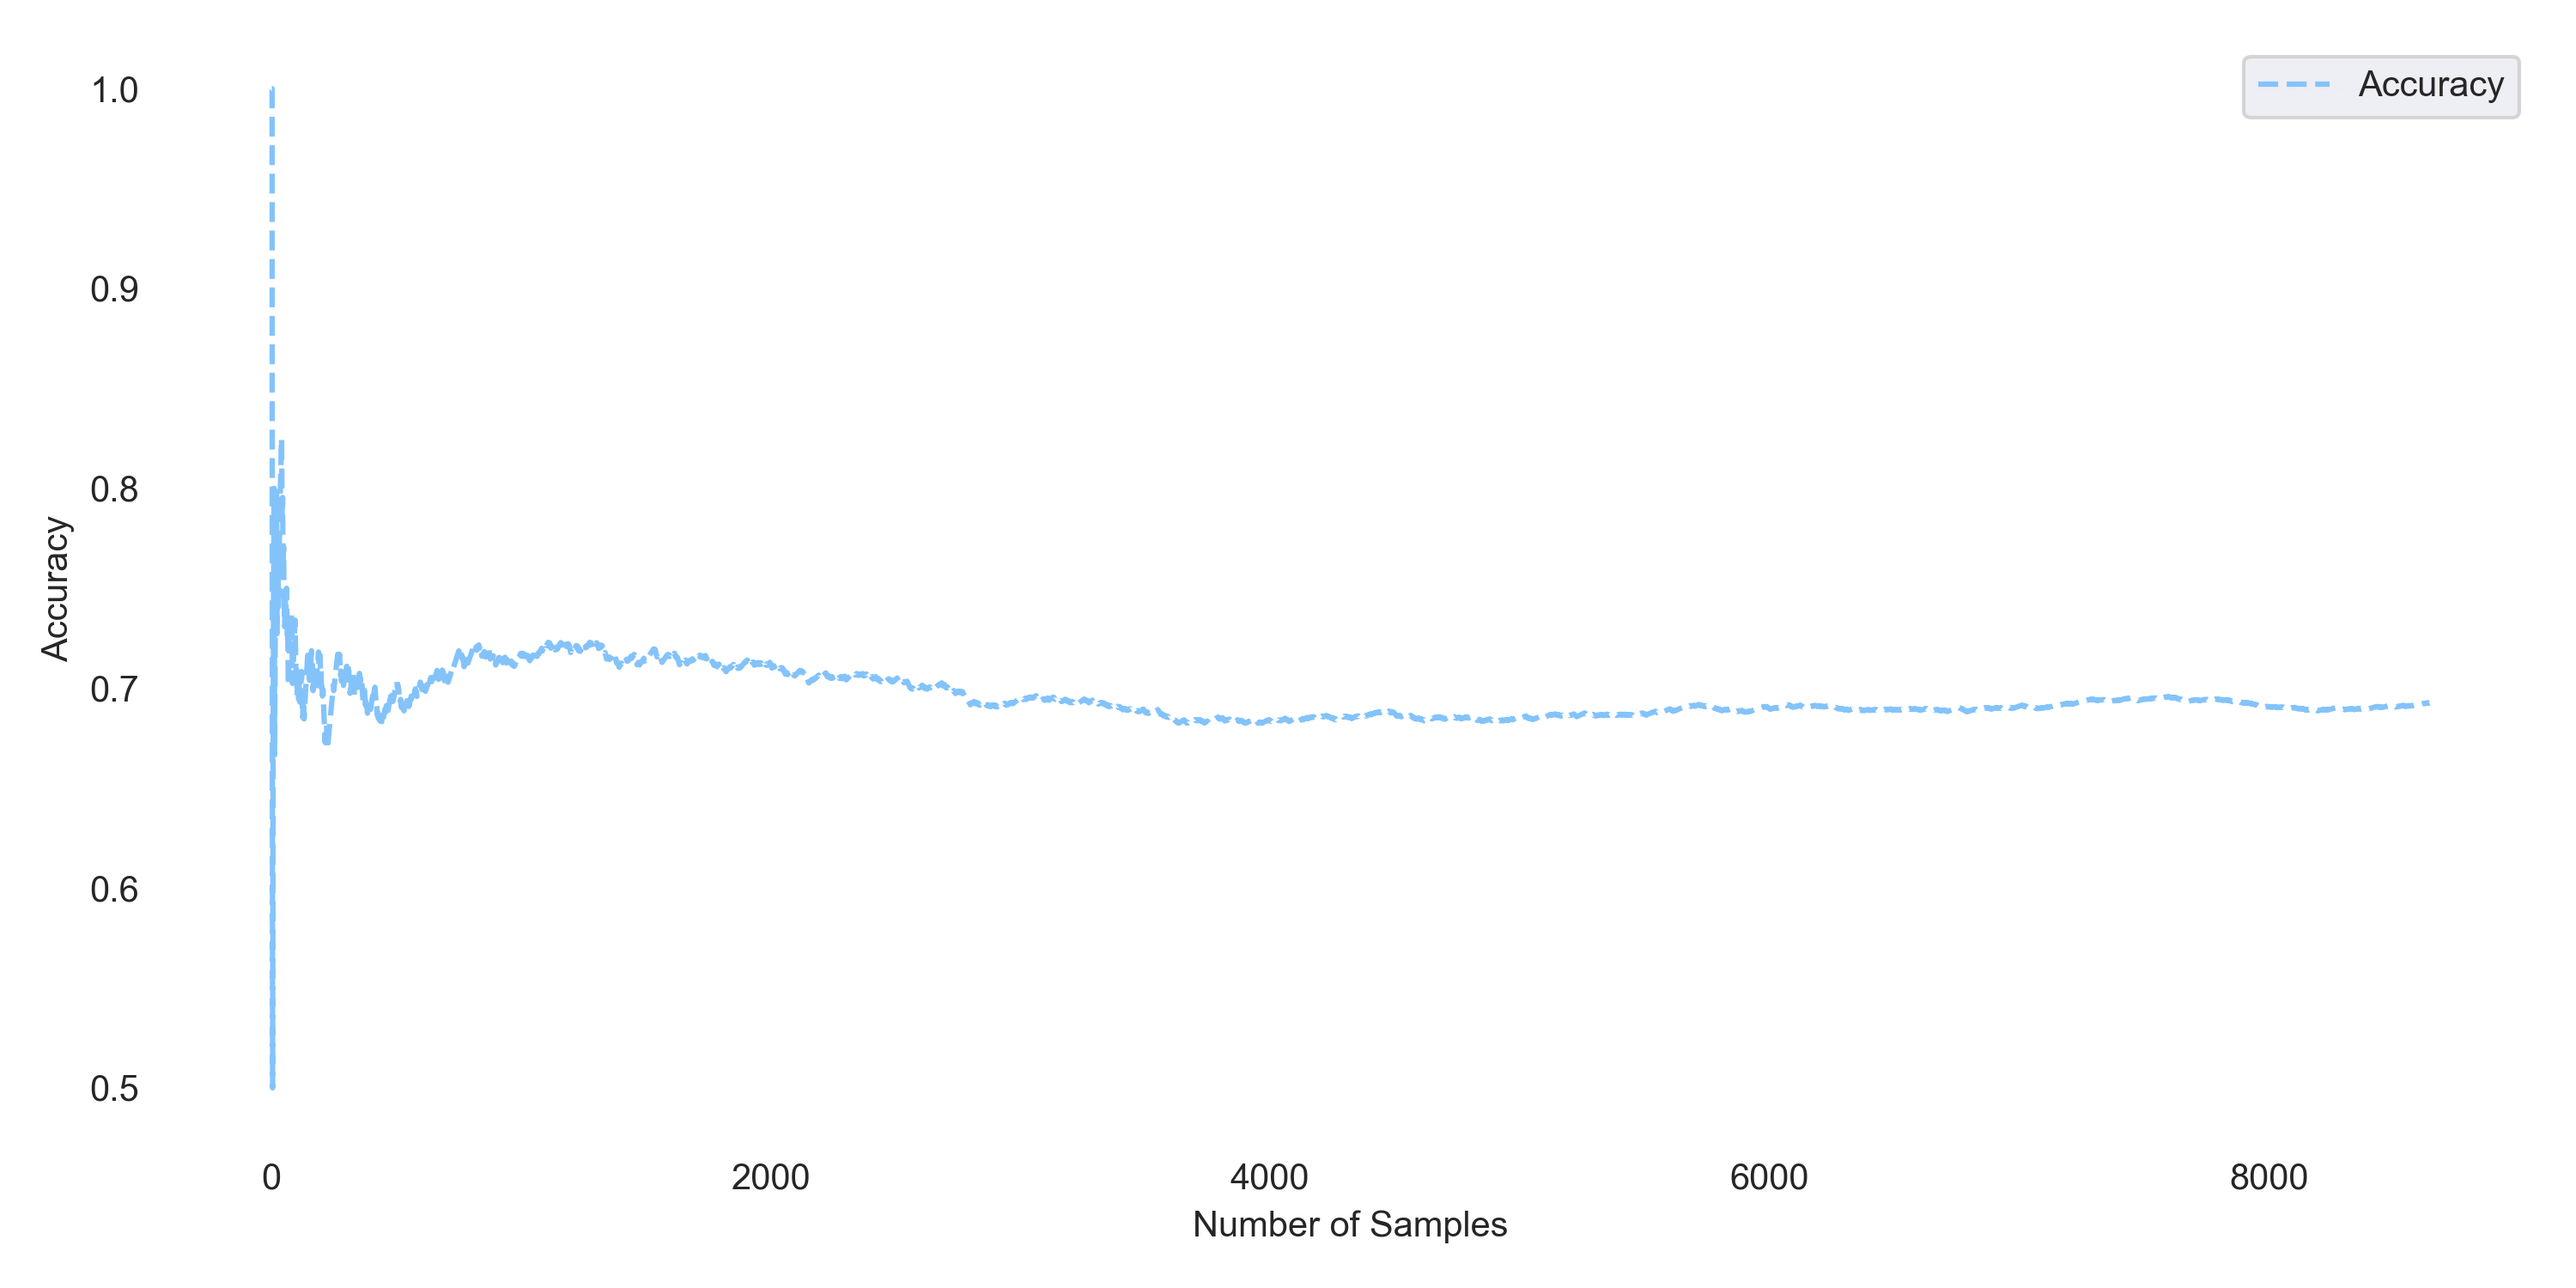
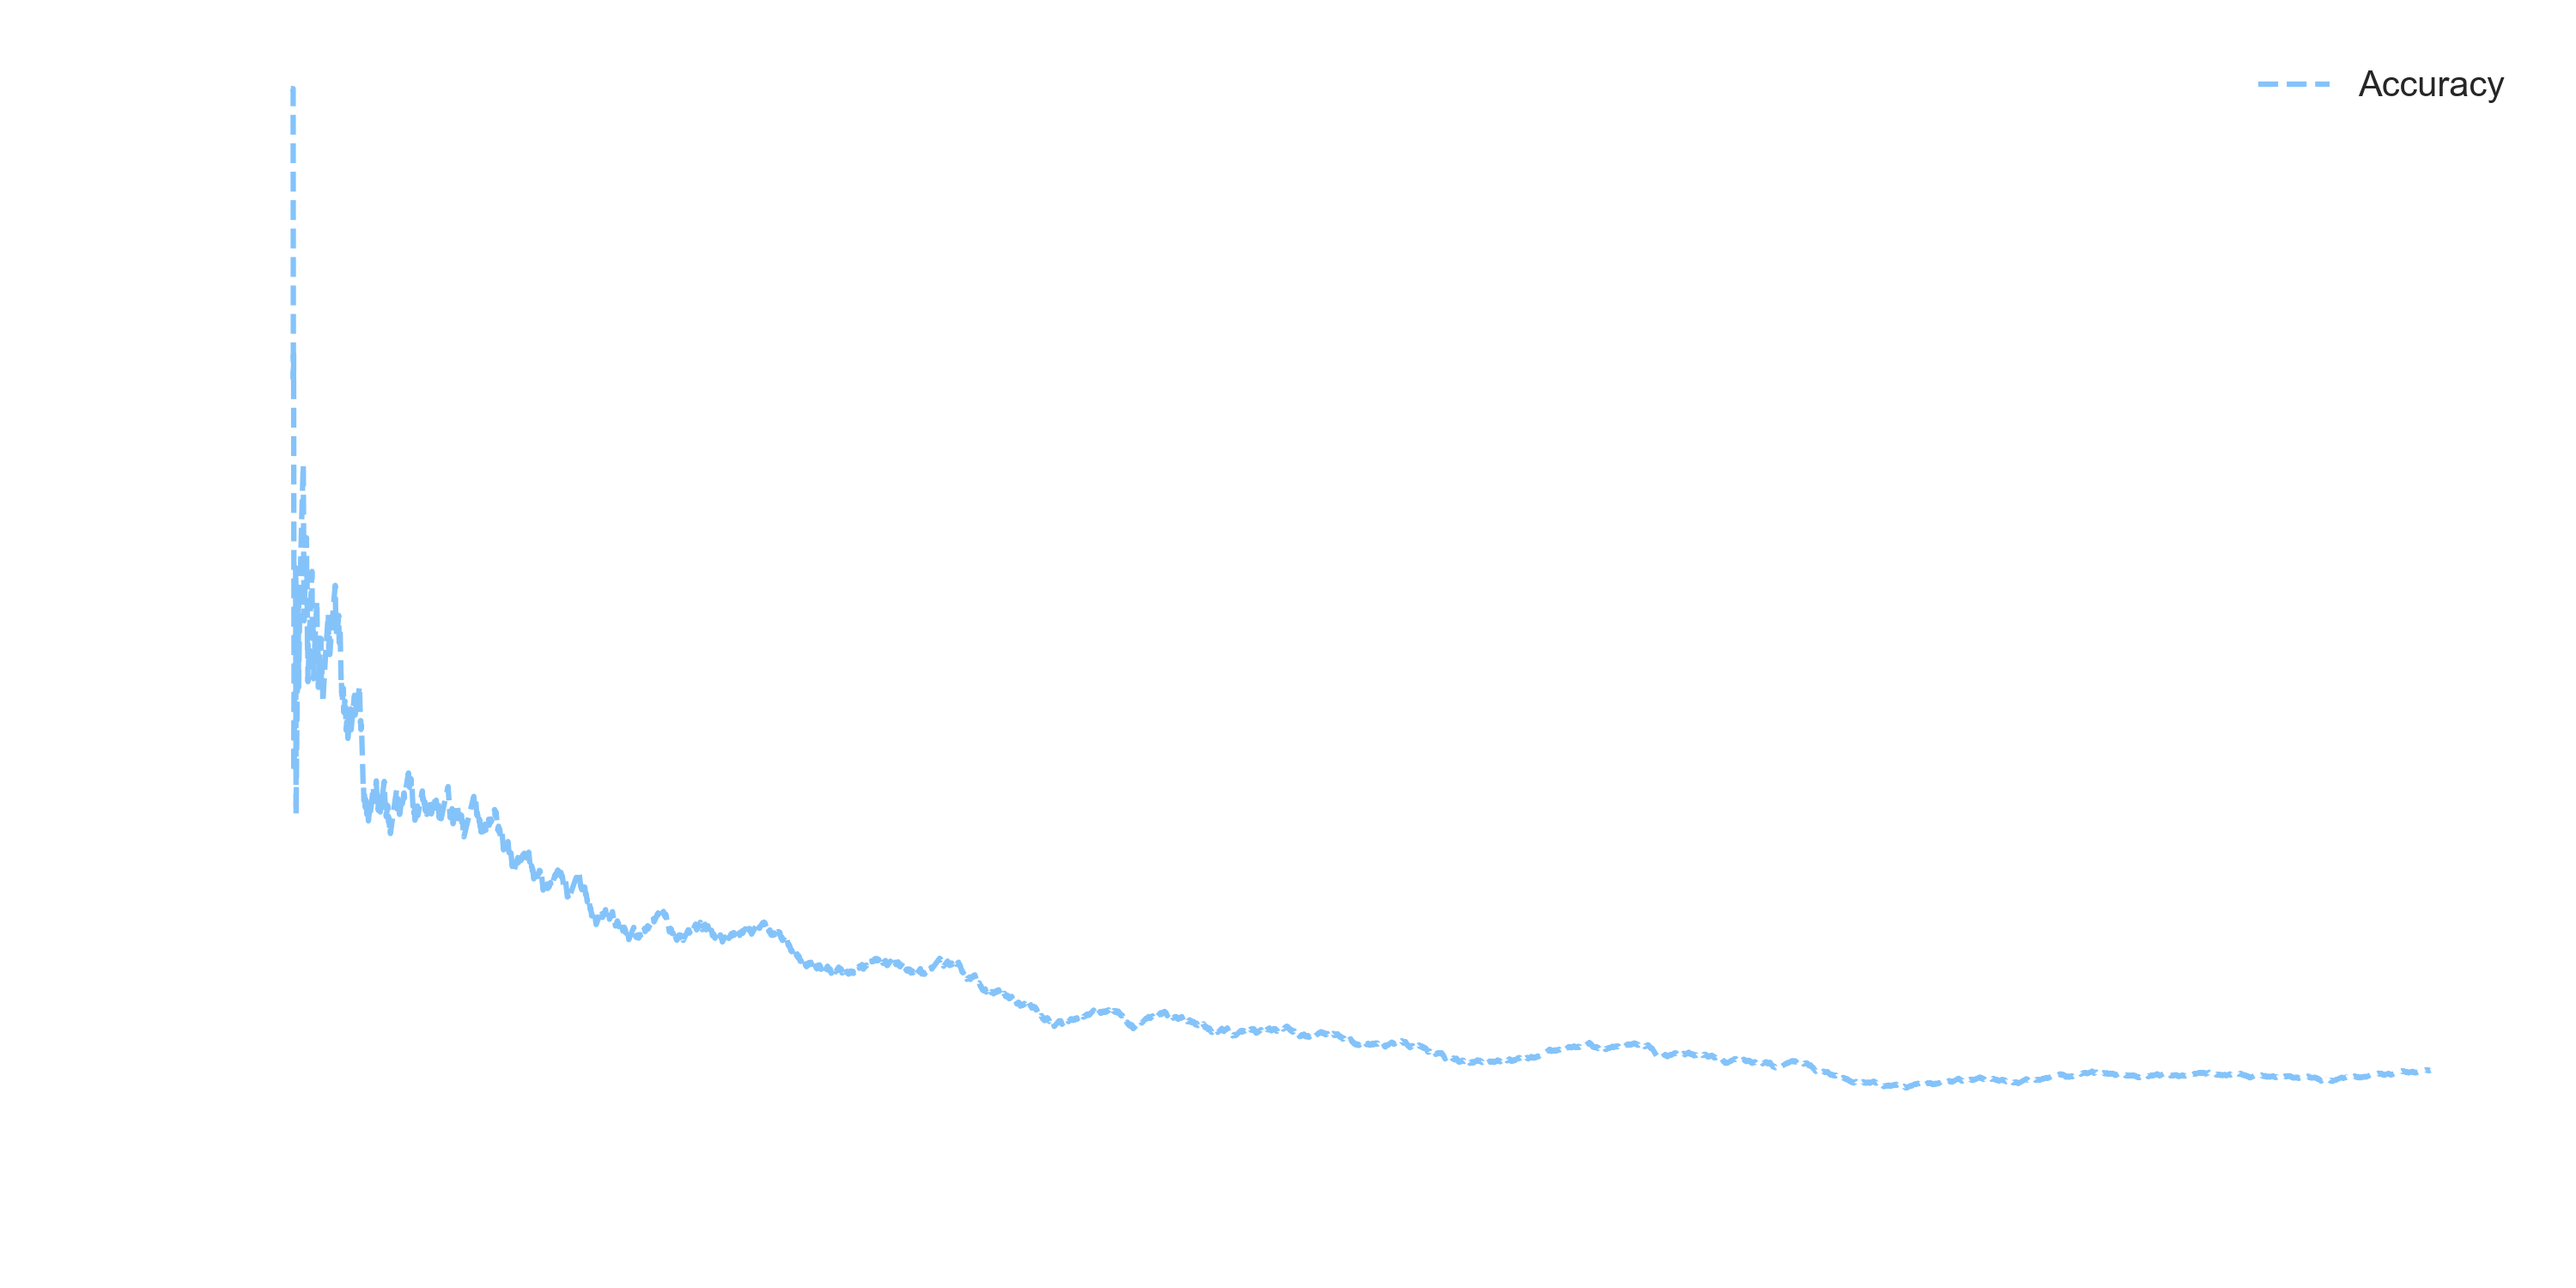
Finalized validation

diff --git a/src/prediction_models/gbdt_model.py b/src/prediction_models/gbdt_model.py
@@ -331,13 +331,15 @@ class GradientBoostingModel(ABC):
         accuracy_timeline = [accuracy_score(y_val[:i], predictions[:i]) for i in range(1, len(y_val) + 1)]
         plt.figure(figsize=(10, 5))
         sns.lineplot(x=range(1, len(y_val) + 1), y=accuracy_timeline, linestyle="--", color="#84C3FA")
-        plt.xlabel("Number of Samples")
-        plt.ylabel("Accuracy")
+        plt.xlabel("Number of Samples", color="white")
+        plt.ylabel("Accuracy", color="white")
         plt.grid(True, linestyle="--", alpha=0.6, axis="y")
         plt.grid(False, axis="x")  # Disable vertical grid lines
         plt.gca().set_facecolor("none")  # Make the background transparent
-        plt.legend(["Accuracy"])
+        plt.legend(["Accuracy"], facecolor="none", edgecolor="none")
         plt.tight_layout()
+        plt.gca().tick_params(axis="x", colors="white")
+        plt.gca().tick_params(axis="y", colors="white")
         plt.savefig(self.directory.joinpath(f"{self.model_name}_Accuracy_Over_Samples.png"), dpi=300, transparent=True)
         plt.close()
         logger.info(f"Accuracy over samples plot for {self.model_name} stored.")
@@ -383,14 +385,16 @@ class GradientBoostingModel(ABC):
 
         ax.xaxis.set_major_locator(mdates.WeekdayLocator(interval=2))
         ax.xaxis.set_major_formatter(mdates.DateFormatter("%Y-%m-%d"))
-        plt.xticks(rotation=90)
-        ax.set_xlabel("Date")
-        ax.set_ylabel("Accuracy")
+        plt.xticks(rotation=90, color="white")
+        ax.set_xlabel("Date", color="white")
+        ax.set_ylabel("Accuracy", color="white")
         ax.grid(True, linestyle="--", alpha=0.6, axis="y")
         ax.grid(False, axis="x")  # Disable vertical grid lines
         plt.gca().set_facecolor("none")  # Make the background transparent
-        plt.legend()
+        plt.legend(facecolor="none", edgecolor="none")
         plt.tight_layout()
+        ax.tick_params(axis="x", colors="white")
+        ax.tick_params(axis="y", colors="white")
 
         plt.savefig(self.directory.joinpath(f"{self.model_name}_Historical_Accuracy.png"), dpi=300, transparent=True)
         plt.close()
